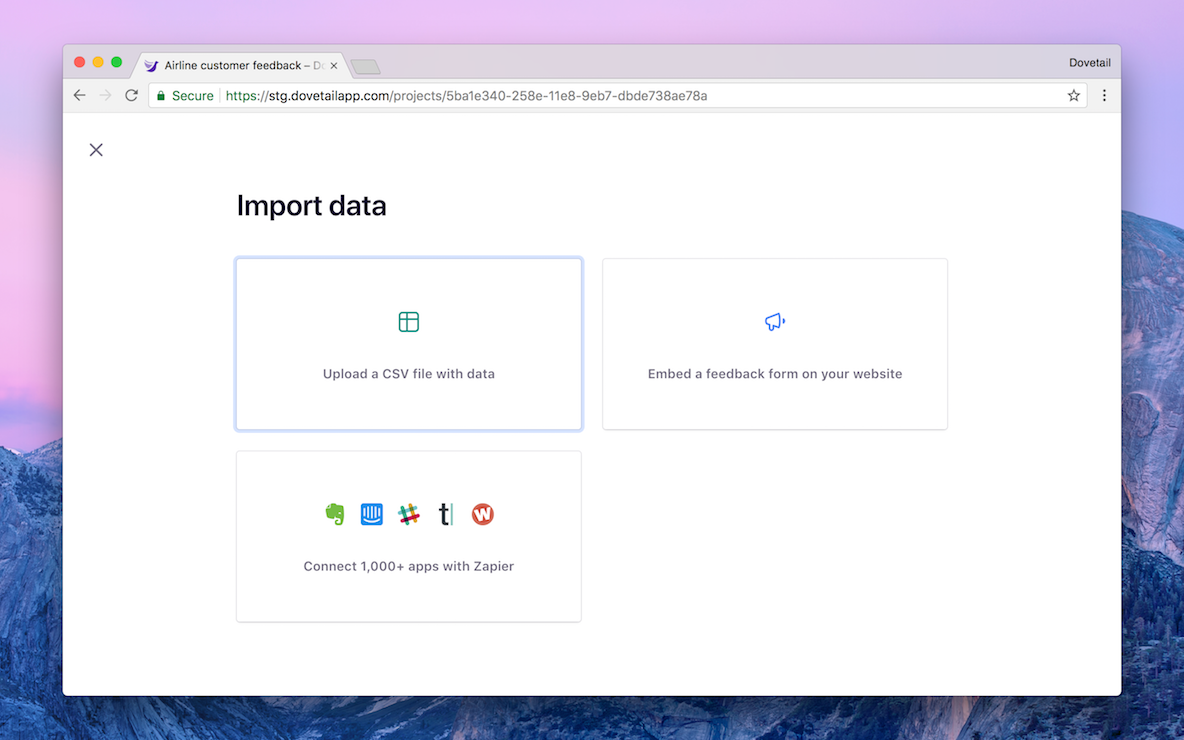
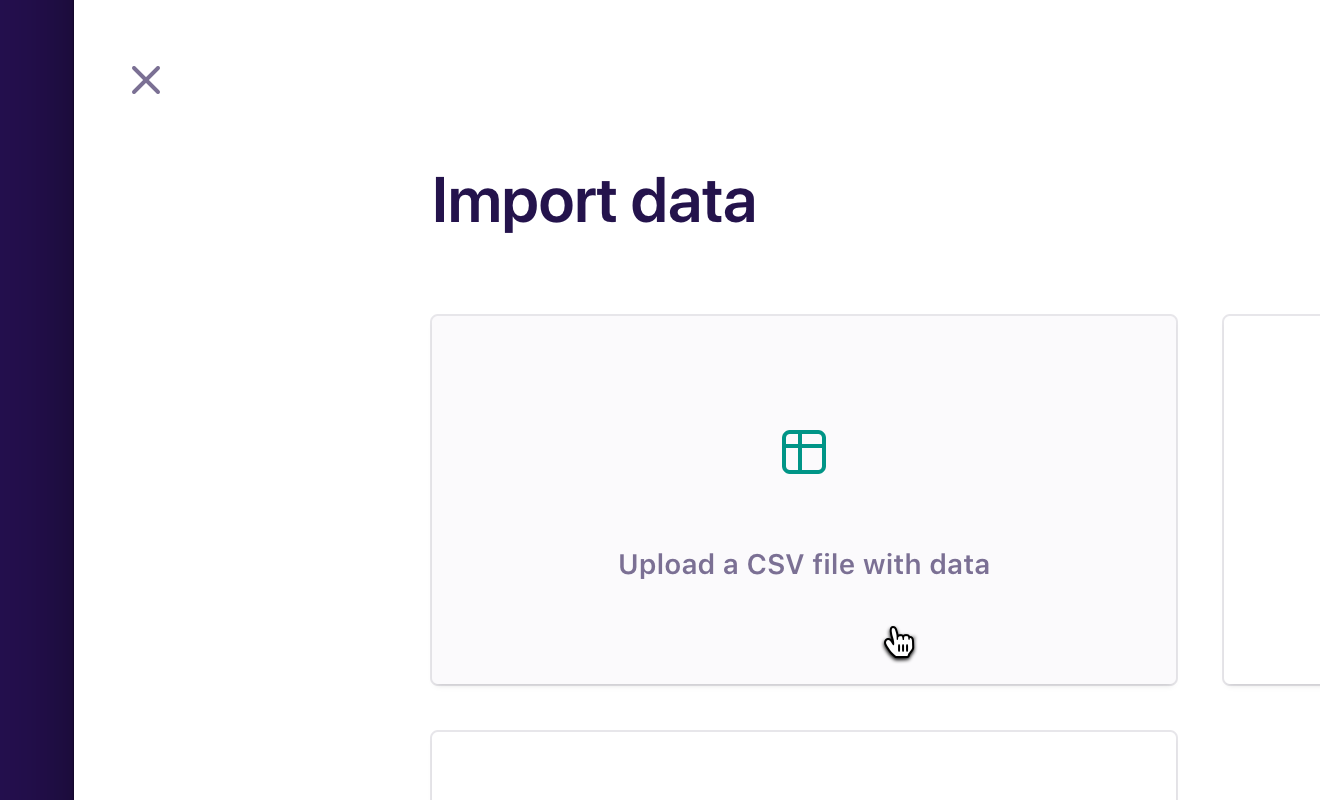
feat: Add a bunch of screenshots to help articles

diff --git a/gatsby-config.js b/gatsby-config.js
@@ -41,7 +41,7 @@ module.exports = {
             resolve: "gatsby-remark-images",
             options: {
               backgroundColor: "transparent",
-              quality: 80,
+              quality: 75,
               maxWidth: 660,
               sizeByPixelDensity: false
             }

diff --git a/src/pages/help/import-your-data/spreadsheet/index.md b/src/pages/help/import-your-data/spreadsheet/index.md
@@ -5,15 +5,17 @@ title: "Upload data via a spreadsheet"
 weight: 1
 ---
 
-Create notes, tags, or insights in bulk from a CSV file (spreadsheet). This is handy for importing data like NPS feedback, survey responses, and customer feedback to analyze in Dovetail, or if you have an existing set of tags you’d like to import.
+Create notes, tags, or insights in bulk from a CSV file. This is handy for importing data like NPS feedback, survey responses, and customer feedback to analyze in Dovetail, or if you have an existing set of tags you’d like to import.
 
-**Note:** CSV import is primarily designed for creating lots of small—to—medium notes. While you can import large content like interview transcripts, you’ll need to take greater care in constructing your CSV file first.
+**Note:** CSV import is primarily designed for creating lots of small—to—medium notes. While you can import large content like interview transcripts, you’ll need to take greater care in preparing your CSV file first.
 
 ## Preparing your file for import
 
 You’ll need a sheet from [Microsoft Excel](https://support.office.com/en-us/article/Import-or-export-text-txt-or-csv-files-5250ac4c-663c-47ce-937b-339e391393ba), [Google Sheets](<(https://support.google.com/docs/answer/49114)>), or [Numbers](https://support.apple.com/en-au/HT205391) saved as a UTF-8 encoded Comma Separated Value (CSV) file.
 
-The first row needs to be the title of each column. For example, if you’re importing customer feedback, the first row should contain column headers with values like ‘Name’, ‘Email’, ‘Feedback’ and so on.
+The first row needs to be the title of each column. For example, if you’re importing customer feedback, the first row should contain column headers with values like _Name_, _Email_, _Feedback_ and so on.
+
+A few things to note:
 
 * Formatting like headings, bold, italics, lists, tables, and images are not supported when importing from a CSV.
 * The maximum length for notes in Dovetail is 100,000 characters. No cell in your CSV file should exceed this limit.
@@ -23,7 +25,7 @@ The first row needs to be the title of each column. For example, if you’re imp
 
 ## Supported fields
 
-You’ll need to map your CSV columns to Dovetail’s fields. When creating your CSV file, make sure it has a column for each of these:
+You’ll need to map your CSV columns to Dovetail’s fields. Spreadsheets contain structured data, whereas Dovetail is designed for unstructured data. When creating your CSV file, make sure it has a column for each of these:
 
 ### Title
 
@@ -39,40 +41,40 @@ This is an optional field. We recommend the [ISO 8601](https://en.wikipedia.org/
 
 ## Importing your data
 
-Once you’ve got your CSV file ready, open the project you’d like to import your data into and click **Import** near the top right.
+Once you’ve got your CSV file ready, open the project you’d like to import your data into and click **Import** near the top right:
 
-Click **Upload a CSV file with data**:
+![Screenshot of a cursor over the ‘Import’ button in a project](./import.png)
 
-![Import data modal dialog](./import-modal.png)
+Click **Upload a CSV file with data** and choose a .csv file from your computer:
 
-Choose a **CSV file (.csv)** from your computer:
+![Screenshot of a cursor over ‘Upload a CSV file with data’](./import-modal.png)
 
-![OS X file picker dialog](./choose-file.png)
+The next step is **mapping columns** in your spreadsheet to Dovetail’s fields. As mentioned above, Dovetail currently supports three fields for notes, tags, and insights: **created date**, **title**, and **body**.
 
-Decide which column to map to the note title. Open the **select menu** and choose **Title** for that column. In this case, we’ve picked the ‘author’ column:
+![Screenshot of the column mapping interface](./map-columns.png)
 
-![Column mapping interface](./map-first-column.png)
+First, decide which column to map to the title. Open the **select menu** and choose **Title** for that column. In this case, we’ve picked the ‘author’ column:
 
-Decide which column to map to the body. This will be the content of the note or insight. If you’re importing tags, you don’t need to select a column for body.
+![Screenshot of the an open select menu for a column](./map-first-column.png)
+
+Next, decide which column to map to the body. This will be the content of the note or insight. If you’re importing tags, you don’t need to select a column for body.
 
 Open the **select menu** and choose **Body** for that column:
 
-![Column mapping interface](./map-second-column.png)
+![Screenshot of the an open select menu for a column](./map-second-column.png)
 
-If you’d like to analyze the sentiment of your data, keep the **Automatically analyze sentiment** checkbox checked. Dovetail will add ‘Positive’ and ‘Negative’ tags to sentences that express a strong positive or negative sentiment. Sentiment analysis is only available on imported notes, not tags or insights.
+Open the **select menu** after ‘as’ and decide whether you’d like to import your data as notes (default), tags, or insights:
 
-[Learn more about sentiment analysis](/help/sentiment)
+![Screenshot of a cursor over ‘note’ in the type dropdown](./choose-type.png)
 
-Open the **select menu** after ‘as’ and decide wheneter you’d like to import your data as notes (default), tags, or insights:
+Open the next **select menu** and choose what group to put the imported data in.
 
-![Column mapping interface](./choose-type.png)
+> If you’d like to analyze the sentiment of your data, keep the **Automatically analyze sentiment** checkbox checked. Dovetail will add ‘Positive’ and ‘Negative’ tags to sentences that express a strong positive or negative sentiment. Sentiment analysis is only available on imported notes, not tags or insights. [Learn more](/help/sentiment)
 
-Open the next **select menu** and choose what group to put the imported data in:
+Click **Import rows** to start the import. Your data will start importing. You can see the progress of your import in the bottom right corner:
 
-![Column mapping interface](./choose-group.png)
+![Screenshot of the import progress toast notification in the bottom right corner](./importing.png)
 
-Click **Import rows**. Your data will start importing. You can continue using Dovetail while this is happening; just don’t close your browser window.
+Once the import has finished, click **Refresh** to see everything you’ve imported. In this case, the author is the note title, their review is the body, and sentiment analysis has added a few ‘Positive’ and ‘Negative’ tags for us:
 
-Once the import has finished, **refresh** to see everything you’ve imported. In this case, the author is the note title, their review is the body, and sentiment analysis has added a few ‘Positive’ and ‘Negative’ tags for us:
-
-![List of imported notes](./import-complete.png)
+![Screenshot showing a list of imported notes](./import-complete.png)

diff --git a/src/pages/help/export-your-data/export-annotations/index.md b/src/pages/help/export-your-data/export-annotations/index.md
@@ -1,18 +1,21 @@
 ---
-path: "/help/export-annotations"
 date: "2018-04-11"
+path: "/help/export-annotations"
 title: "Download a spreadsheet of annotations"
+weight: 1
 ---
 
 You can download all unique annotations as a spreadsheet (CSV).
 
 The spreadsheet includes the following columns: Created, Title, Color, Group, Type, Note group, Note, Text, and a URL.
 
+![Screenshot of the project ‘More’ menu](./export-to-csv.png)
+
 To download a spreadsheet of all annotations in a project:
 
 1.  Visit your project
 1.  Click the **More** menu (three dots) near the top right
-1.  Click **Export as CSV**
+1.  Click **Export to CSV**
 
 ---
 

diff --git a/src/pages/help/export-your-data/export-notes/index.md b/src/pages/help/export-your-data/export-notes/index.md
@@ -1,12 +1,15 @@
 ---
-path: "/help/export-notes"
 date: "2018-04-11"
+path: "/help/export-notes"
 title: "Backup notes and insights"
+weight: 2
 ---
 
 You can download a single note or insight as a PDF.
 
 We’ve chosen PDF for notes because it’s the only semi-standardized format that preserves selectable text along with formatting, layout, and highlights.
+
+![Screenshot of the note ‘More’ menu](./print-to-pdf.png)
 
 To save a note or insight as a PDF:
 
